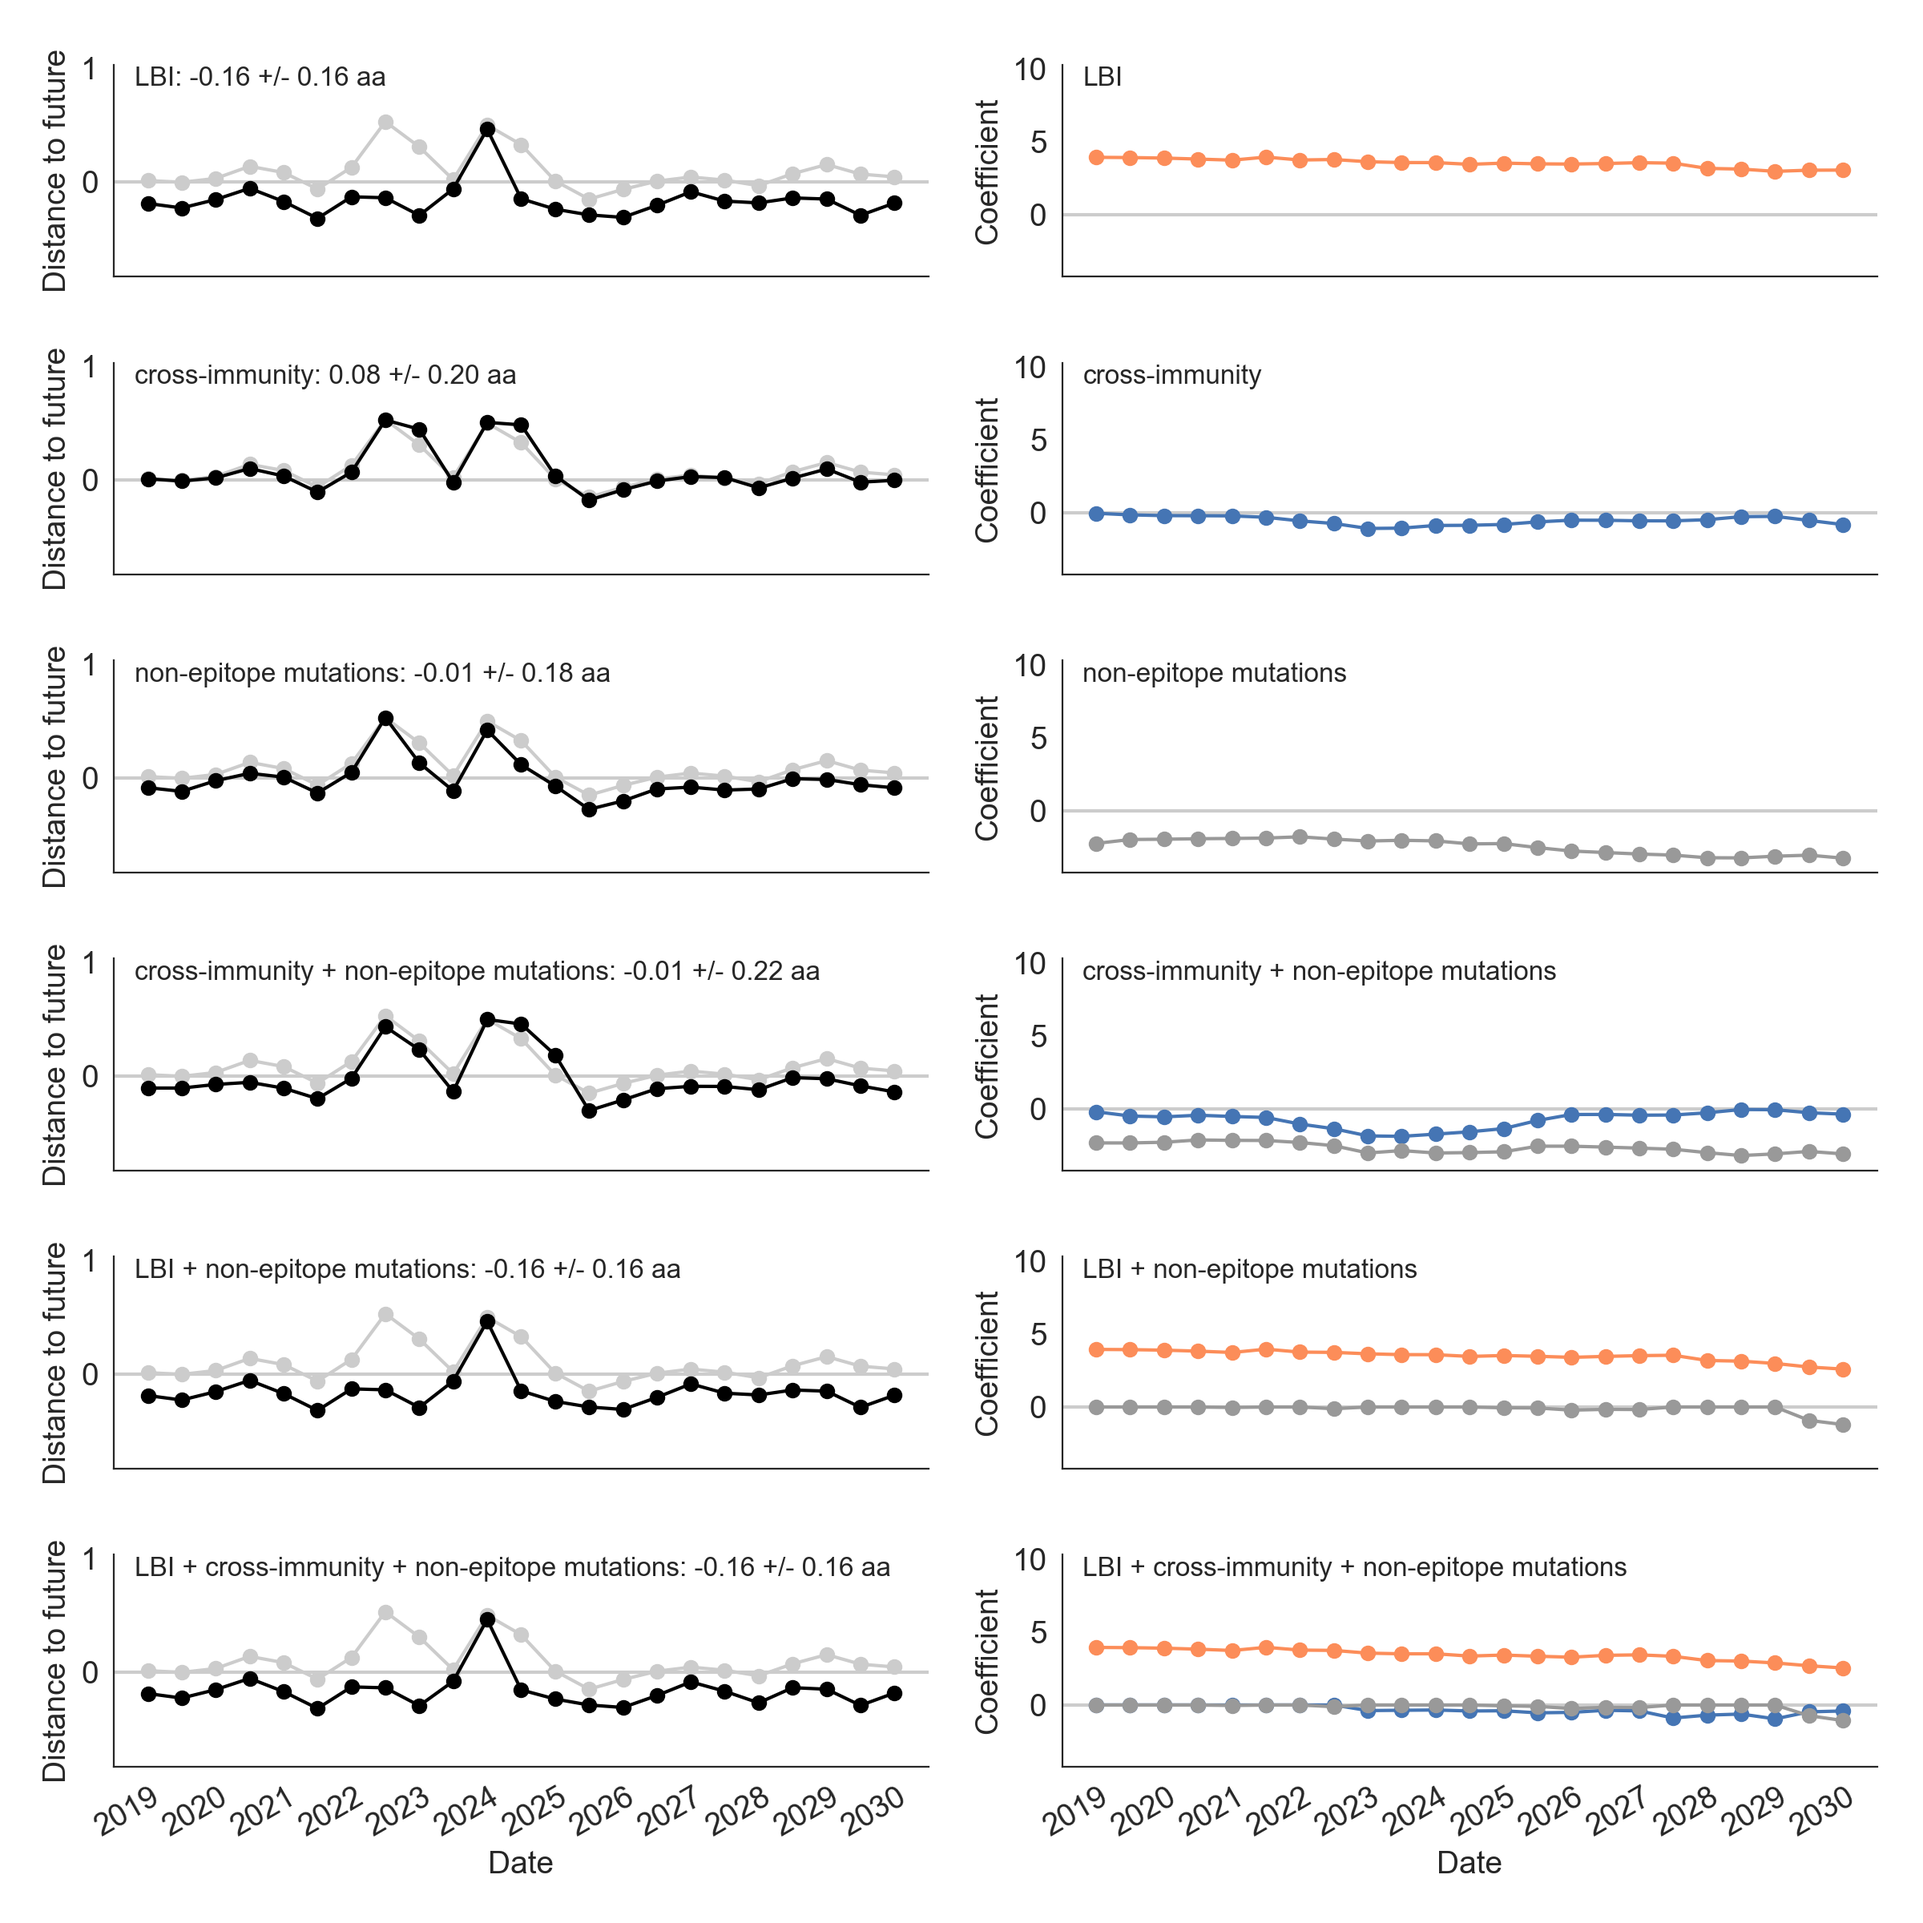
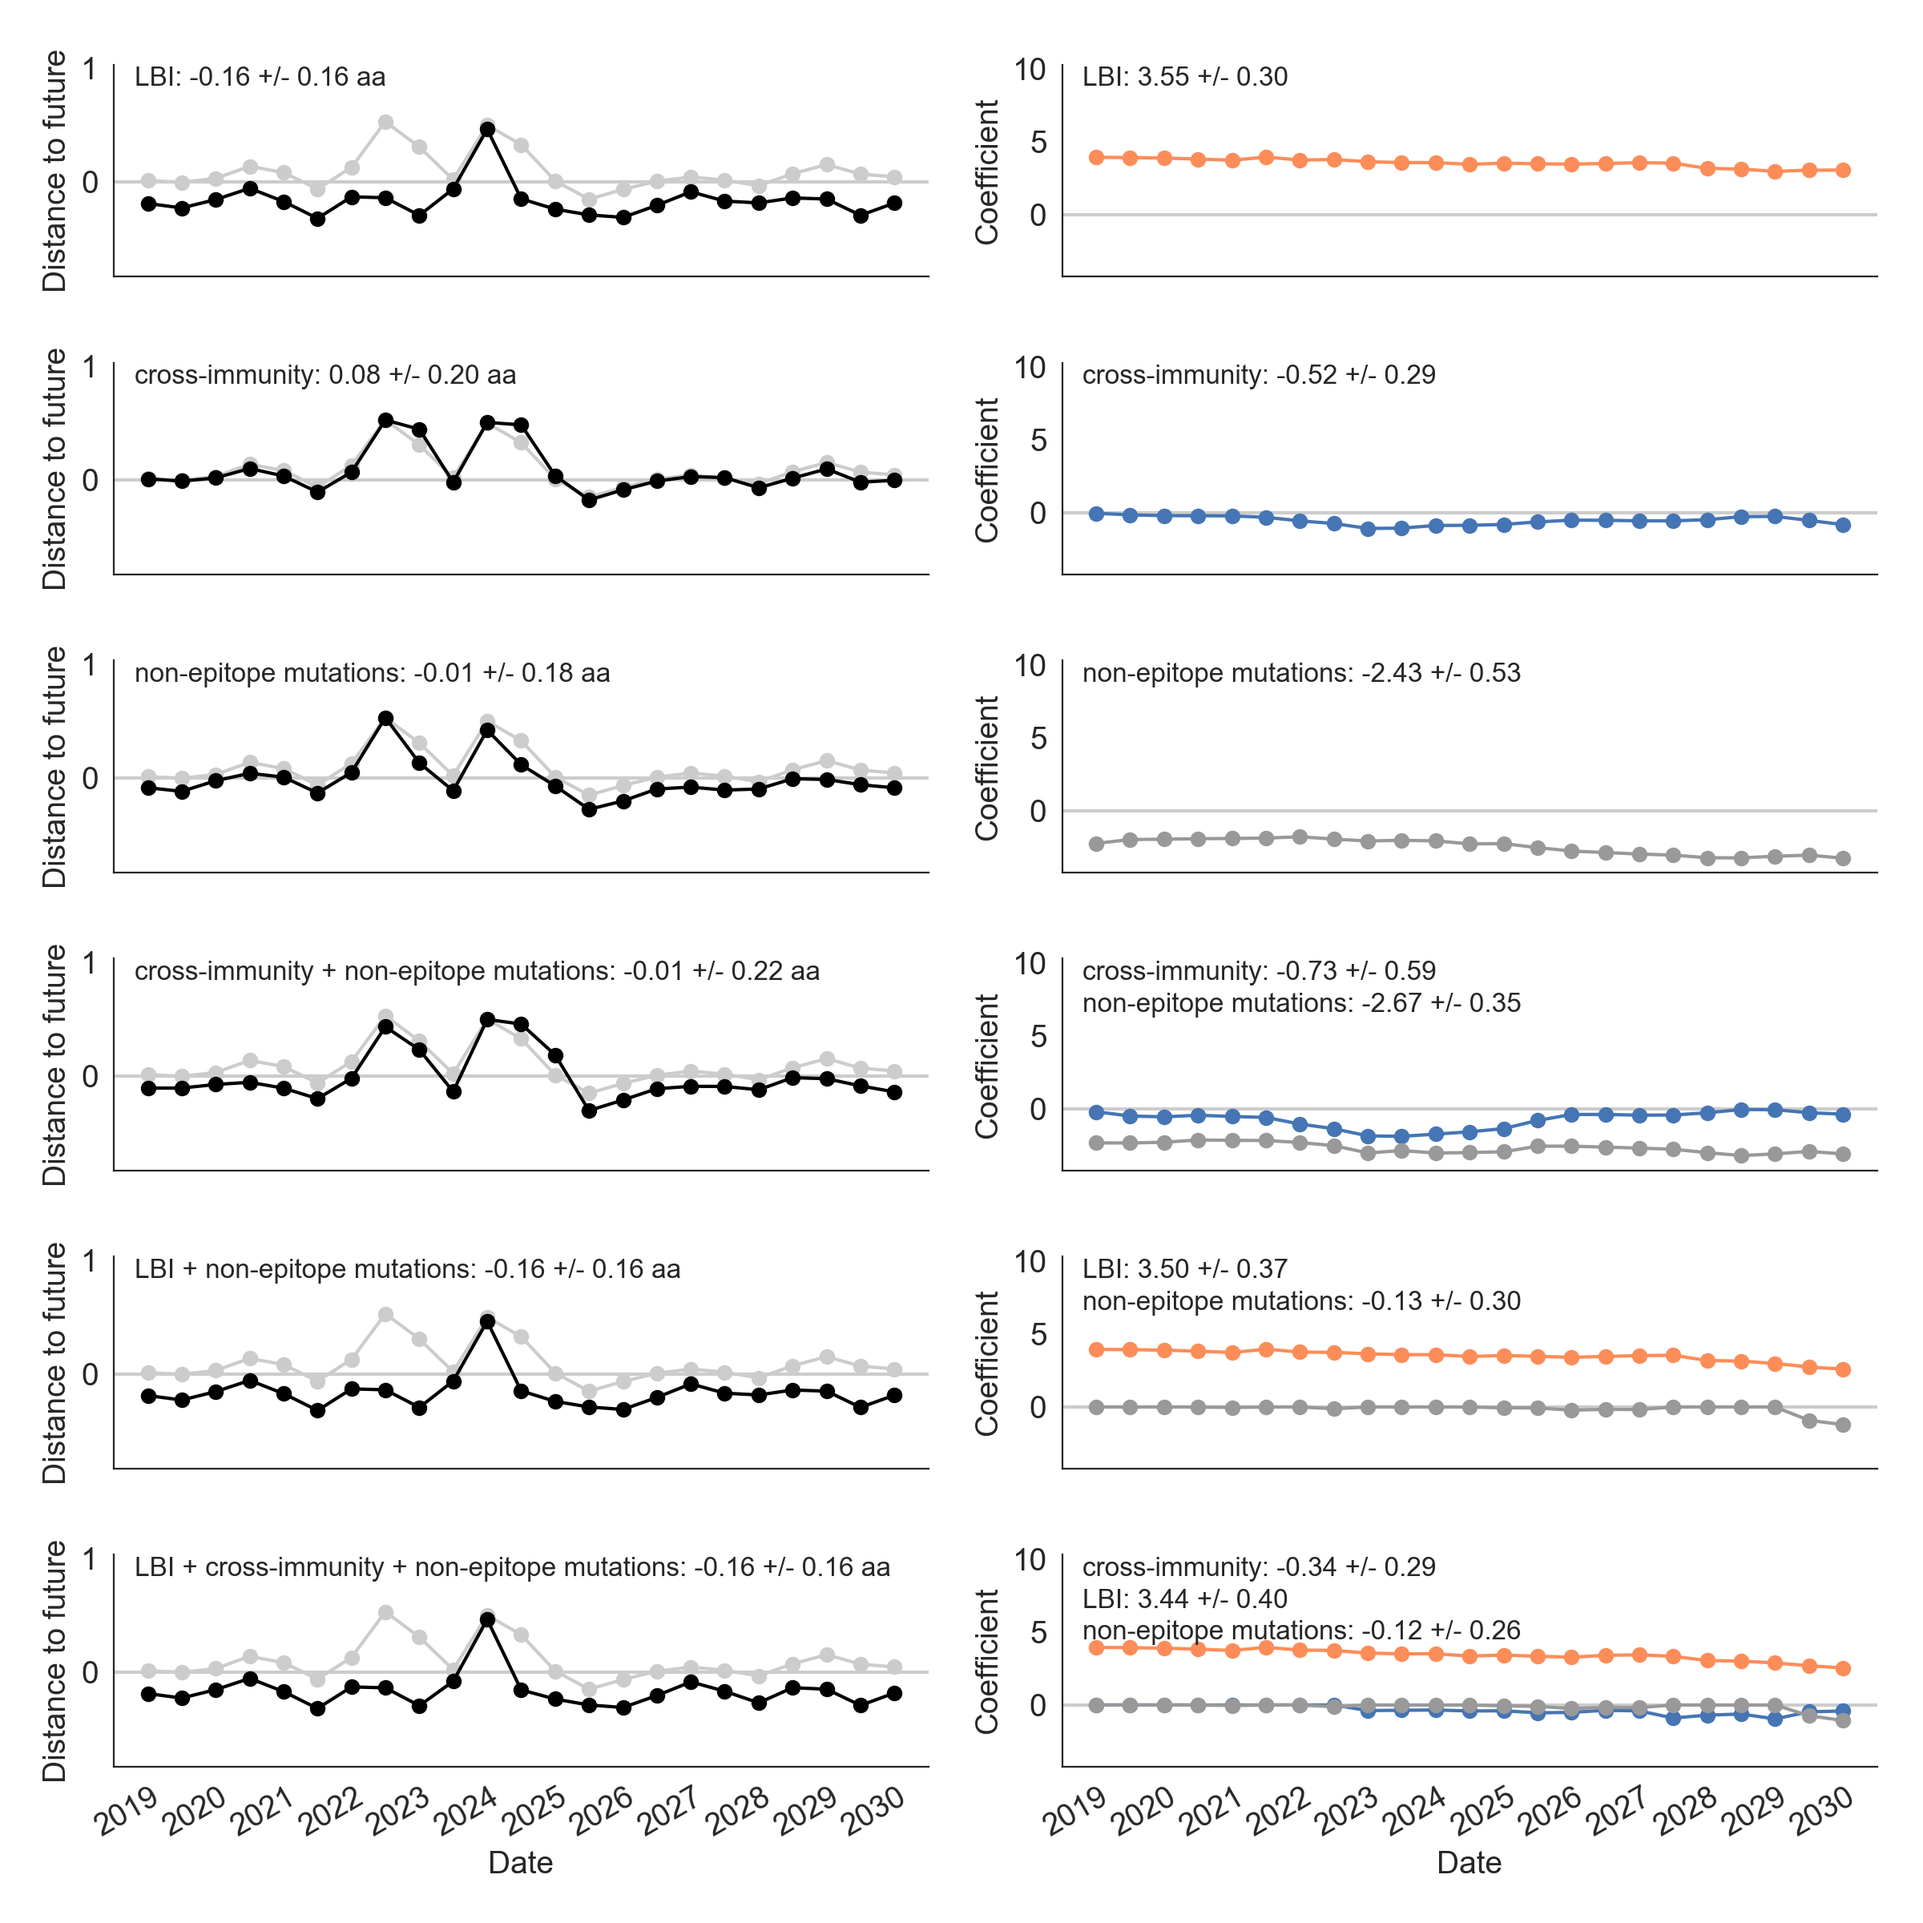
Revise summary of models for simulated populations

diff --git a/manuscript/main.tex b/manuscript/main.tex
@@ -30,7 +30,7 @@ We describe an approach to integrate previously disparate sequence-only models o
 \subsection*{Models accurately forecast evolution of simulated populations of {A/H3N2-like viruses}}
 
 The long-term evolution of influenza A/H3N2 hemagglutinin has been previously described as a balance between positive selection for substitutions at epitopes that enable escape from adaptive immunity and purifying selection on domains required to maintain the protein's primary functions of binding and membrane fusion \cite{Bush:1999vj,Neher2013,Luksza:2014hj,Koelle:2015dh}.
-To test the ability of our models to accurately detect these evolutionary patterns under controlled conditions, we first simulated the long-term evolution of five independent populations of A/H3N2-like viruses for 5,000 generations each using SANTA-SIM \cite{Jariani2019}.
+To test the ability of our models to accurately detect these evolutionary patterns under controlled conditions, we simulated the long-term evolution of five independent populations of A/H3N2-like viruses for 4,000 generations each using SANTA-SIM \cite{Jariani2019}.
 We seeded each simulated population with the full length HA from A/Beijing/32/1992 such that all simulated sequences contained signal peptide, HA1, and HA2 domains.
 We defined purifying selection across all three domains, allowing the preferred amino acid at each site to change at a fixed rate over time.
 We additionally defined exposure-dependent selection for 129 putative epitope sites in HA1 \cite{Wolf:2006da} to impose an effect of cross-immunity that would allow mutations at those sites to increase viral fitness despite underlying purifying selection.
@@ -39,20 +39,18 @@ These selective constraints produced phylogenetic structures and accumulation of
 Under the evolutionary constraints of our simulations, we expected the models to learn positive coefficients for cross-immunity and negative coefficients for non-epitope mutations corresponding to the fitness benefits of novel epitope sequences and costs of accumulating deleterious mutations.
 We reasoned that because LBI and delta frequency measure the recent success of samples without any mechanistic explanation for that success, these two models should be assigned positive coefficients and should outperform the individual mutation models by being able to simultaneously represent benefits of epitope mutations and costs of non-epitope mutations with a single metric.
 To achieve the same accuracy from mutation-only models, we anticipated that these two models would need to be combined.
-To test these hypotheses, we trained models for each individual fitness metric on 20 years of simulated sequences corresponding to generations 1000--3000 where 100 generations represents one year.
+To test these hypotheses, we trained models for each individual fitness metric on 20 years of simulated sequences corresponding to generations 1000--3000 where 100 generations represent one year.
 As a positive control, we trained a model on the true fitness of each sample as measured by the simulator.
-To control for variability in distances between seasons, we evaluated all models relative to the observed distance between seasons (the adjusted distance between seasons).
-This distance corresponded to a model without an exponential growth parameter which we labeled as the ``naive'' model.
+As a negative control, we evaluated a ``naive''  model under which there was no change in population composition over the one year forecasting period.
+To control for genetic diversity within and between seasons, we evaluated all model forecasts by the average distance between the estimated and observed future population sequences (Methods).
 
-The average distance per year between populations under the naive model of no frequency change was 0.10 +/- 0.17 (Supplemental Fig.~\ref{sup_fig:distance_of_simulated_populations_between_timepoints}).
-The naive model accurately approximated the future in five out of 23 validation timepoints (22\%).
-All biologically-informed models consistently reduced this distance with estimates by LBI accurately estimating the future in 22 of 23 timepoints (96\%) with an average distance of -0.16 +/- 0.16 (Fig.~\ref{fig:unadjusted_model_accuracy_and_coefficients_for_simulated_populations}).
-As expected, the true fitness metric always outperformed the naive model.
-The non-epitope metric also consistently outperformed the naive model, predicting the future nearly as well as the true fitness.
-Surprisingly, cross-immunity did not accurately forecast future populations and was consistently assigned a weakly negative coefficient.
-While the delta frequency metric was not as accurate as LBI, it was consistently more accurate than the naive model with an average distance similar to the non-epitope metric.
-The coefficients for all metrics except for the true fitness were stably non-zero across all training windows.
-In contrast, the true fitness metric's coefficients gradually decreased over time.
+As expected, the true fitness model consistently estimated a distance to the future of zero or less than zero, with the exception of two timepoints that almost all models failed to estimate properly (Fig.~\ref{fig:unadjusted_model_accuracy_and_coefficients_for_simulated_populations}).
+The naive model consistently underestimated the observed change in simulated populations, accurately approximating the future in just five of 23 timepoints (22\%) with an average distance of 0.10 +/- 0.17 (Supplemental Fig.~\ref{sup_fig:distance_of_simulated_populations_between_timepoints}).
+In contrast, all biologically-informed models except for epitope cross-immunity accurately estimated the distance to the future with average distances less than zero.
+Consistent with the importance of purifying selection in the simulation parameters, the non-epitope mutations model had an average distance to the future of -0.01 +/- 0.18 and received an average coefficient of -2.43 +/- 0.53.
+Surprisingly, epitope cross-immunity did not perform well and received a negative average coefficient, despite the anticipated benefit of epitope mutations that could escape exposure-dependent fitness penalties.
+LBI outperformed all other models including the true fitness model, by accurately estimating the future in 22 of 23 timepoints (96\%) with an average distance of -0.16 +/- 0.16.
+The improved performance of LBI and delta frequency over the individual mutation-based metrics matched our expectations that a single metric could represent the fitness of multiple evolutionary constraints.
 
 \begin{figure*}[t]
   \begin{center}
@@ -62,11 +60,14 @@ In contrast, the true fitness metric's coefficients gradually decreased over tim
   \end{center}
 \end{figure*}
 
-We tested our hypothesis that composite models of cross-immunity and non-epitope mutations would perform as well as LBI or delta frequency.
-We further tested the relationship between LBI and these two individual metrics by fitting composite models with all combinations of these three predictors.
-Surprisingly, cross-immunity provided no additional accuracy to the non-epitope metric, while neither of these mutation-based metrics provided any improvement over LBI (Supplemental Fig.~\ref{sup_fig:unadjusted_composite_model_accuracy_and_coefficients_for_simulated_populations}).
-In the latter models, LBI maintained a consistent coefficient across all training windows while the models assigned both cross-immunity and non-epitope metrics coefficients near zero.
-These results suggest that non-epitope mutations and LBI are mutually exclusive and either metric is sufficient to forecast the evolution of these simulated populations.
+To test our hypothesis that composite models of epitope cross-immunity and non-epitope mutations would perform as well as LBI or delta frequency, we learned parameters for this composite model.
+Surpisingly, we found that the composite mutation model did not perform better than the individual mutation models and actually performed slightly worse than the non-epitope model with more variability in estimated distance to the future (Supplemental Fig.~\ref{sup_fig:unadjusted_composite_model_accuracy_and_coefficients_for_simulated_populations}).
+
+To determine which evolutionary constraints LBI represented, we fit two additional composite models including LBI and non-epitope mutations and LBI with both mutation metrics.
+We reasoned that the coefficients learned by these composite models should reflect the relative contribution of each individual metric to the model accuracy.
+For example, if LBI measures antigenic advance, we would expect the values of the LBI and cross-immunity coefficients to be mutually exclusive such that increase in LBI coefficient is associated with decrease in the cross-immunity coefficient (Supplemental Fig.~\ref{sup_fig:unadjusted_composite_model_accuracy_and_coefficients_for_simulated_populations}).
+Interestingly, we found that the coefficients of the mutation metrics were almost always zero while the LBI coefficients were nearly identical to the coefficients of the individual LBI model.
+These results indicate that the predictive contributions of both cross-immunity and non-epitope mutations can be accounted for by LBI alone.
 
 \textit{Repeat simulations with multiple epochs to show model coefficients can reflect these underlying changes to evolutionary constraints.}
 
